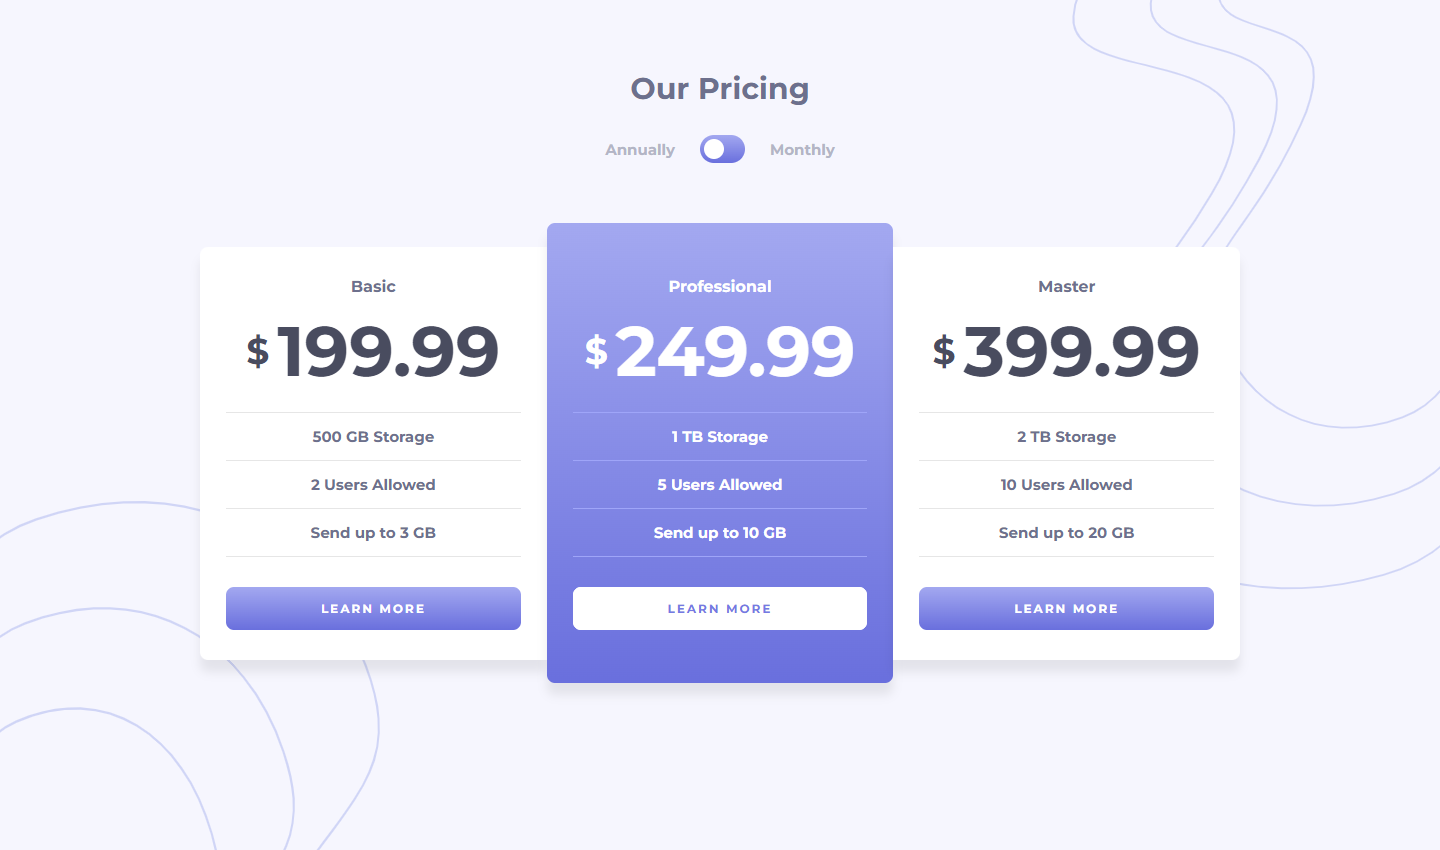
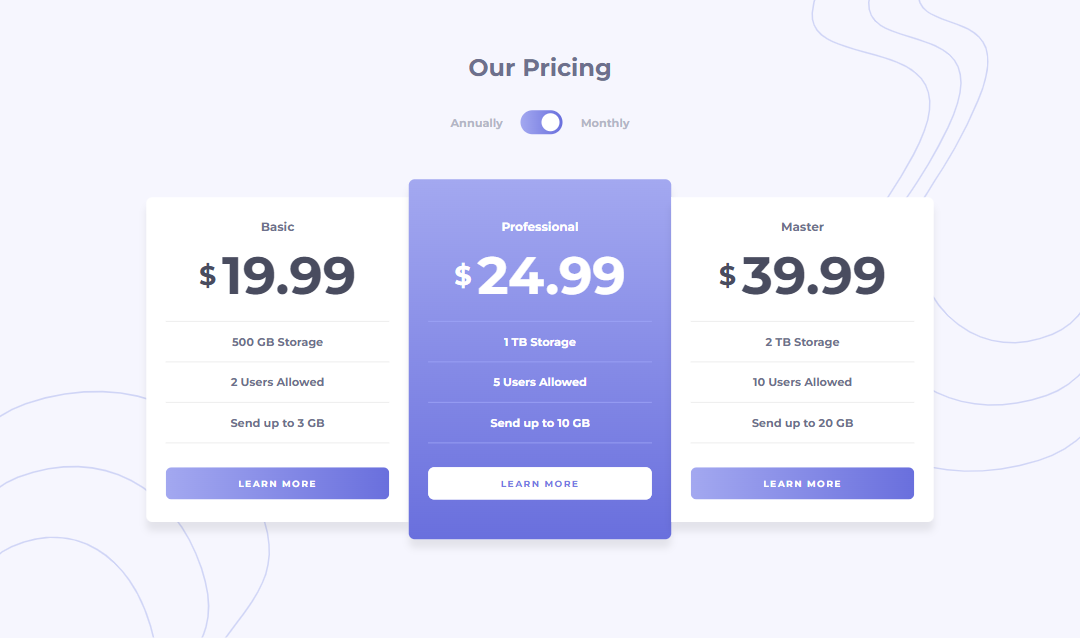
Updated gradient style, readme, and screenshots

diff --git a/Junior/Pricing-Component-With-Toggle/style.css b/Junior/Pricing-Component-With-Toggle/style.css
@@ -37,7 +37,16 @@ input {
 }
 
 :root {
-  --gradient: linear-gradient(hsl(236, 72%, 79%), hsl(237, 63%, 64%));
+  --gradient1: linear-gradient(
+    to right,
+    hsl(236, 72%, 79%),
+    hsl(237, 63%, 64%)
+  );
+  --gradient2: linear-gradient(
+    to bottom,
+    hsl(236, 72%, 79%),
+    hsl(237, 63%, 64%)
+  );
   --verylightgrayishblue: hsl(240, 78%, 98%);
   --lightgrayishblue: hsl(234, 14%, 74%);
   --grayishblue: hsl(233, 13%, 49%);
@@ -105,9 +114,8 @@ main {
 }
 
 .plan__button,
-.card--pro,
 .card__button::before {
-  background: var(--gradient);
+  background: var(--gradient1);
 }
 
 .plan__button::before,
@@ -213,6 +221,10 @@ main {
   padding: 3rem 2.6rem;
   border-radius: 8px;
   box-shadow: 0px 12px 10px rgba(0, 0, 0, 0.08);
+}
+
+.card--pro {
+  background: var(--gradient2);
 }
 
 .card h2 {

diff --git a/Junior/Pricing-Component-With-Toggle/README.md b/Junior/Pricing-Component-With-Toggle/README.md
@@ -14,6 +14,7 @@ This is a solution to the [Pricing component with toggle challenge on Frontend M
   - [Continued development](#continued-development)
   - [Useful resources](#useful-resources)
 - [Author](#author)
+- [Acknowldgements](#acknowledgements)
 
 ## Overview
 
@@ -81,9 +82,13 @@ In conveying the price toggle, I decided to use `transform` properties to shift 
 
 I also discovered that I didn't need to use absolute positioning anymore as long as I gave a set height to the nesting element of both prices. The `transform` takes care of the rest.
 
+Additionally, to accurately depict the gradient, I learned that I had to give it a direction of `to right`.
+
 ### Continued development
 
 - It'd help me to do more challenges involving JS.
+
+- I need more practice with the different gradient settings.
 
 ### Useful resources
 
@@ -92,3 +97,7 @@ I also discovered that I didn't need to use absolute positioning anymore as long
 ## Author
 
 - Frontend Mentor - [@GioCura](https://www.frontendmentor.io/profile/GioCura)
+
+### Acknowledgements
+
+- [Dewslyse's solution](https://dewslyse.github.io/FEM_Solutions/pricing-component-with-toggle/) helped me figure out the gradient directions for this project.
